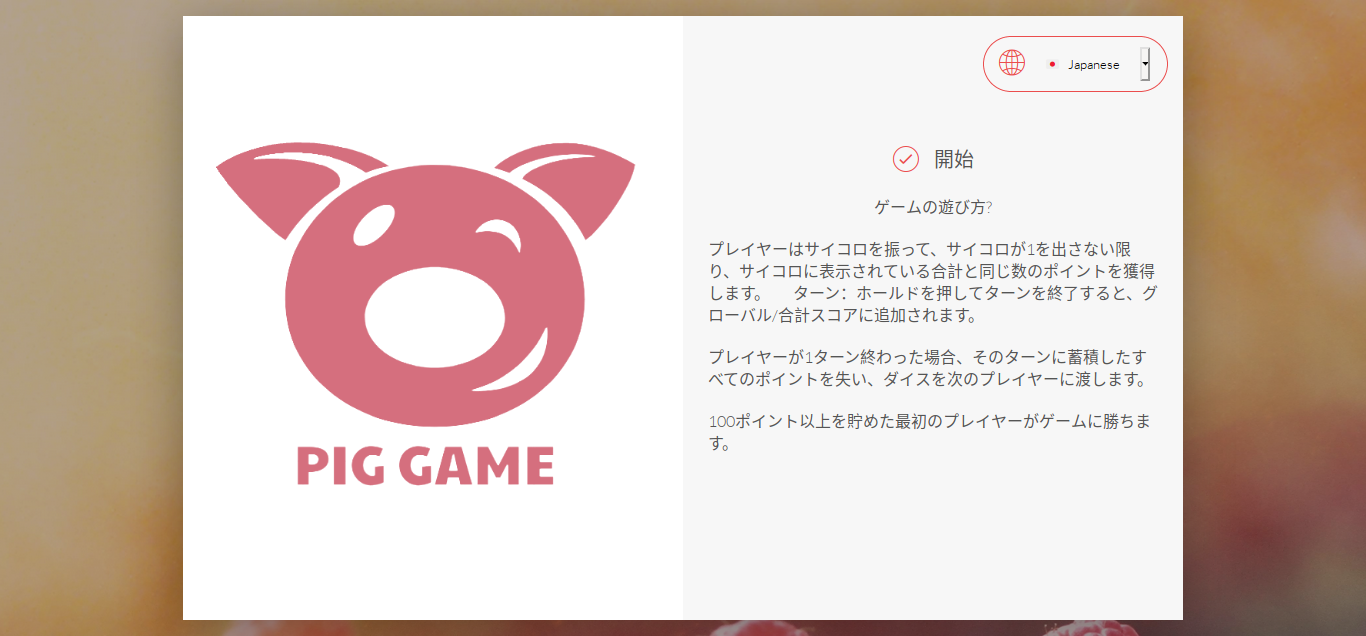
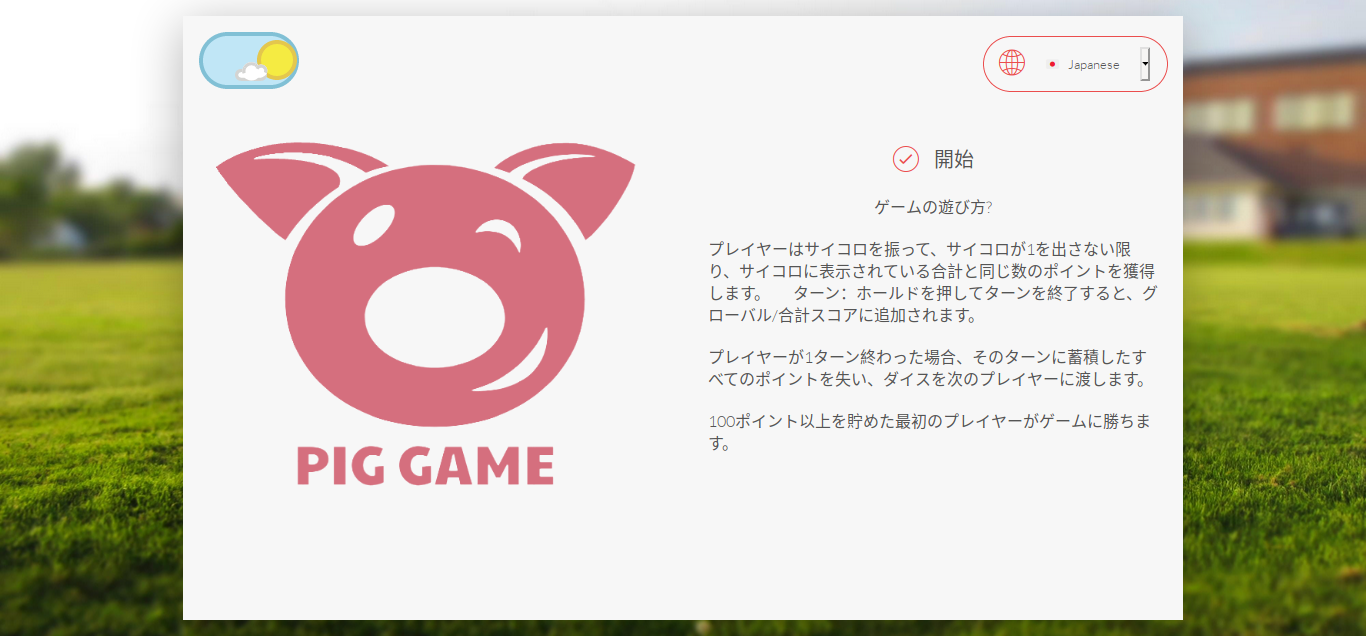
updated project 6

diff --git a/README.md b/README.md
@@ -82,6 +82,9 @@
 
 >> ###### Features:
 >> - [x] use of factory functions
+>> - [x] added background music and sprites
+>> - [x] dark/light theme
+>> - [x] localization (supports 10 languages)
 
 ![Screenshot](_SCREENSHOTS/project6.png)
 
